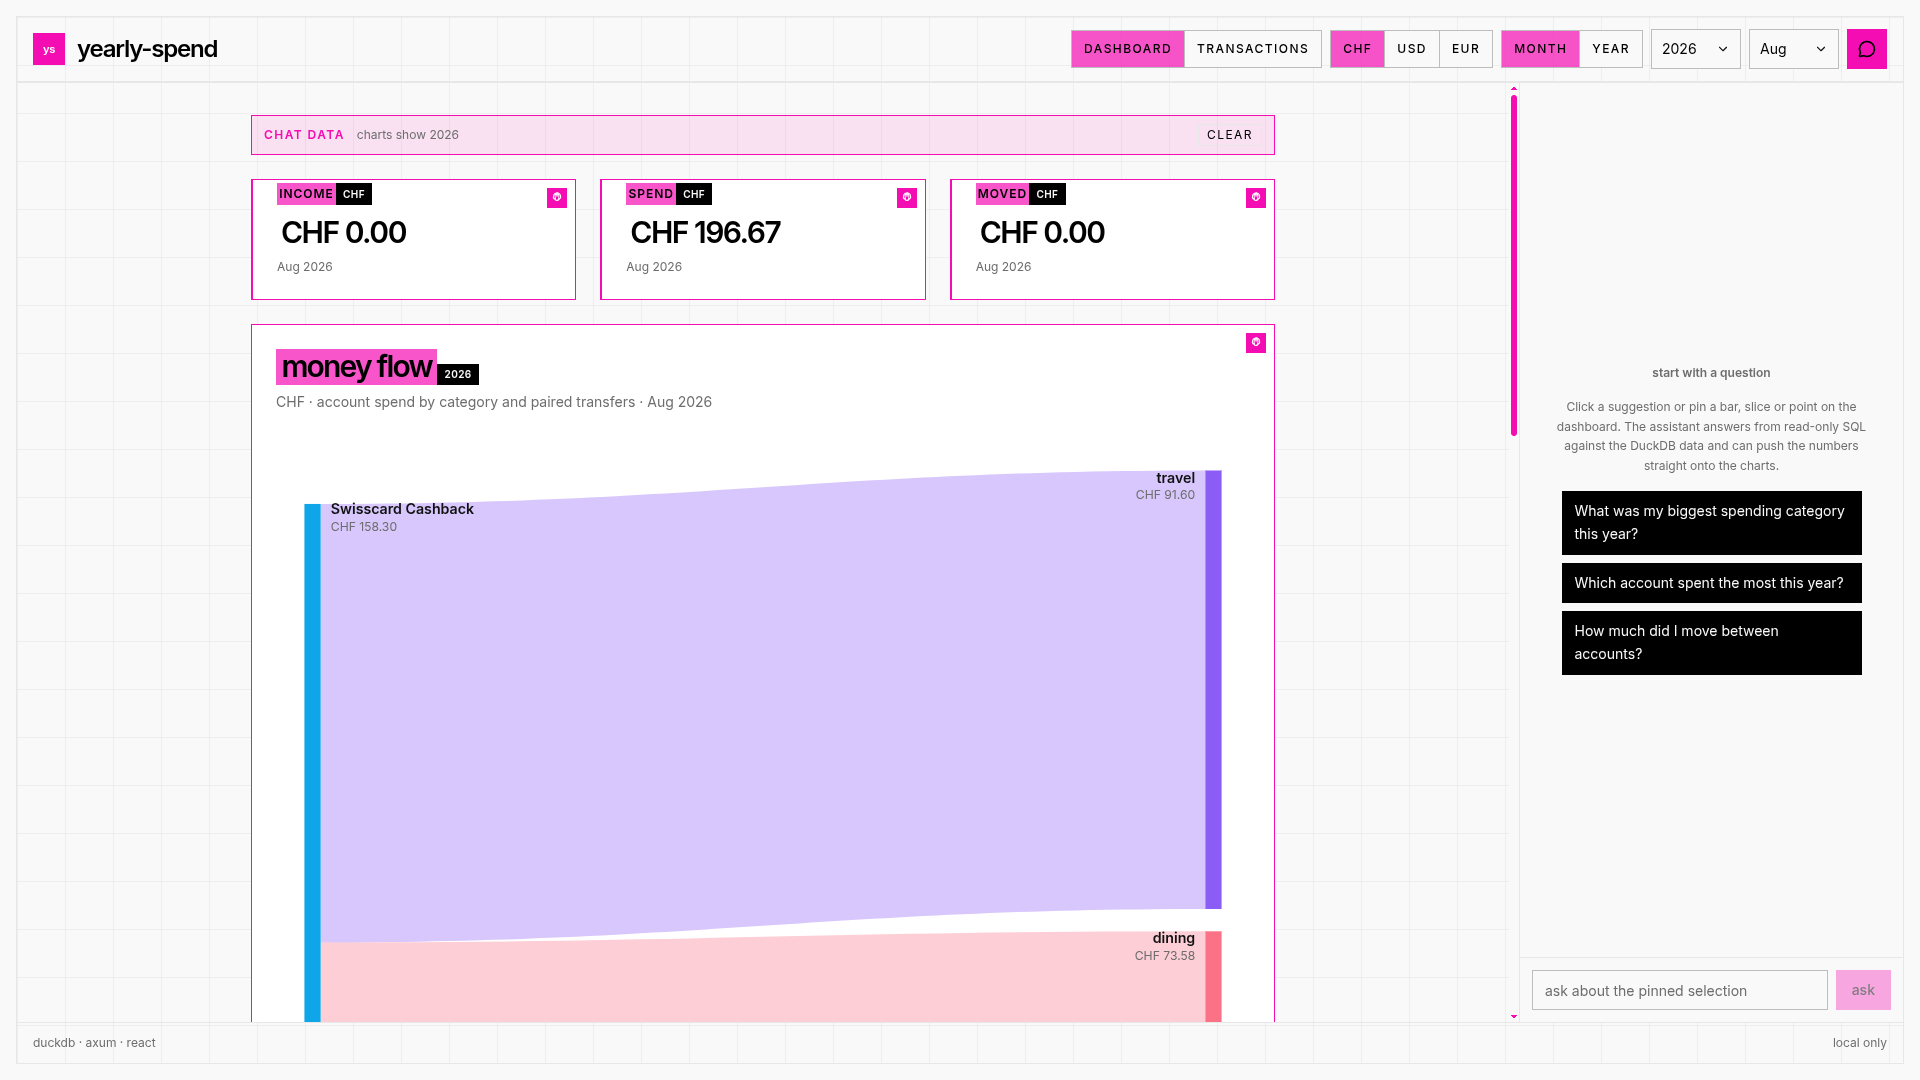
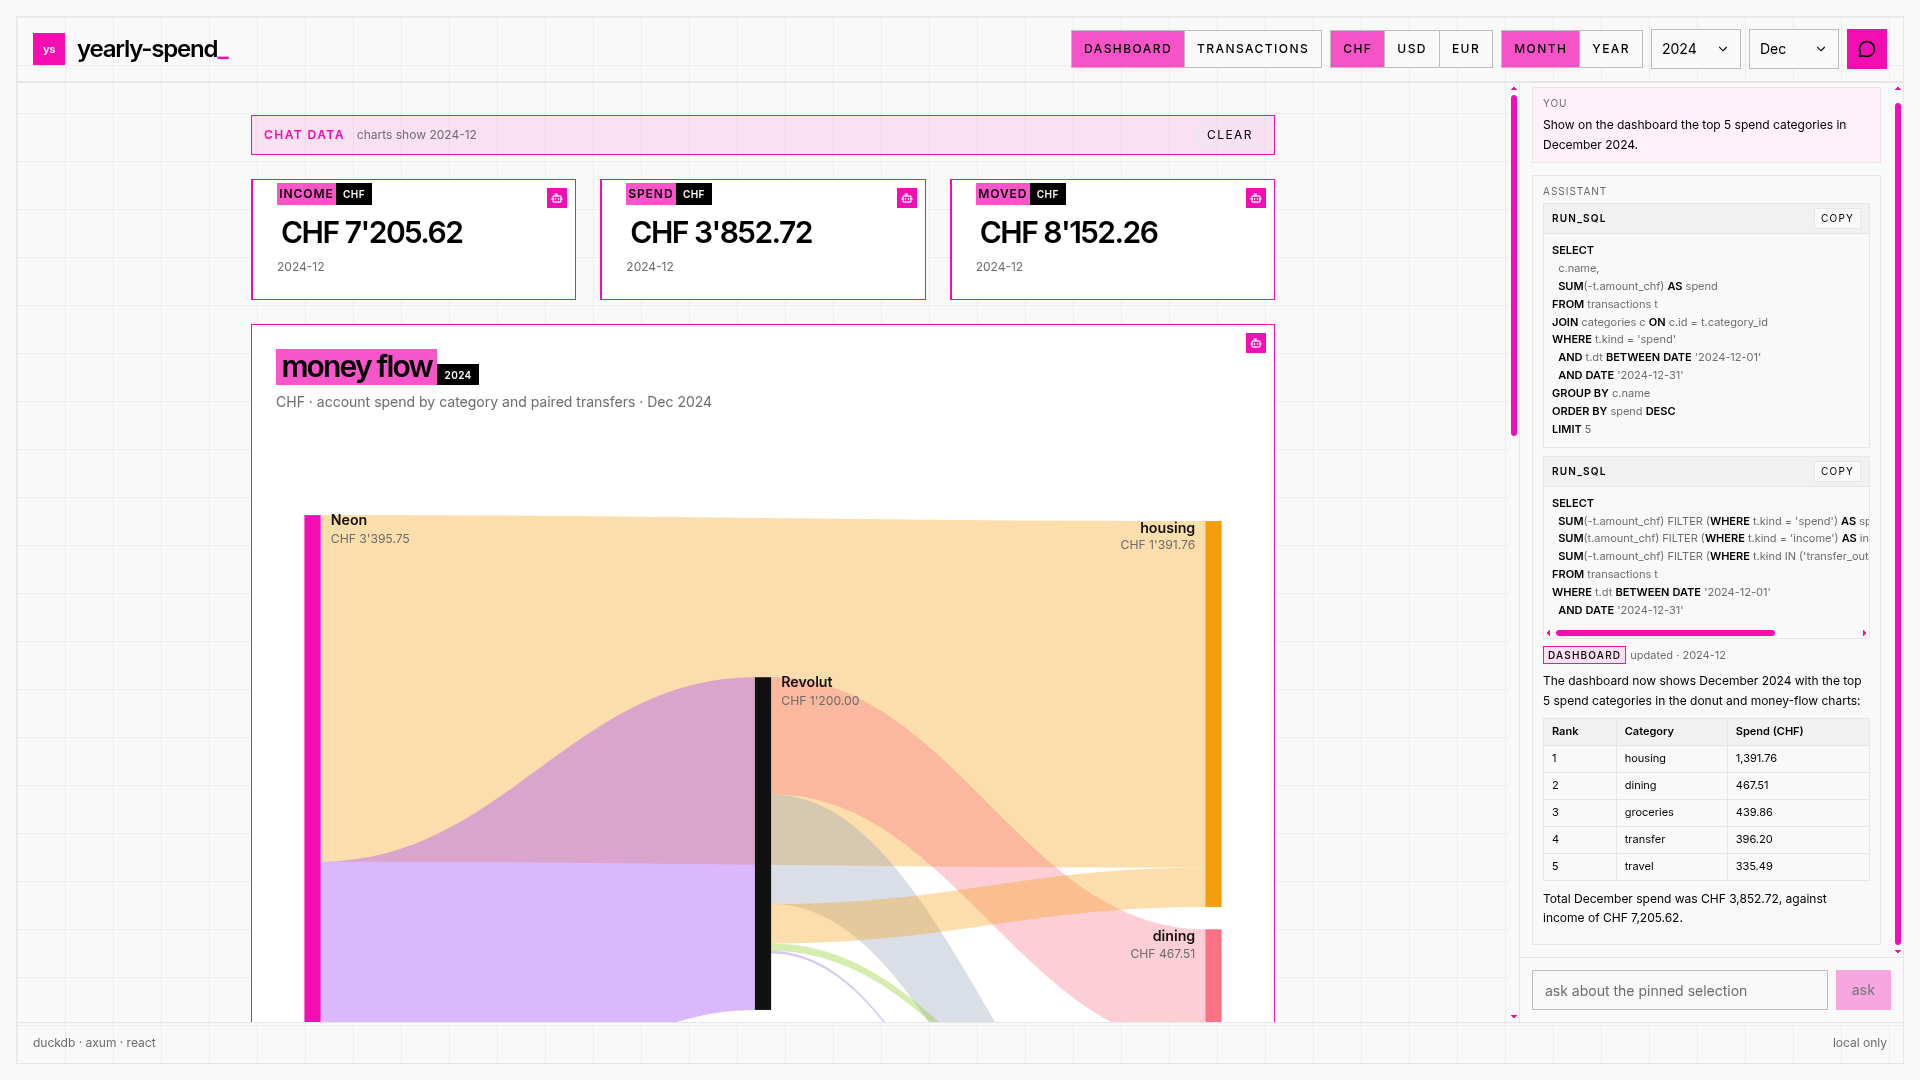
adding pretty sql formatter for ai responces

diff --git a/frontend/src/lib/sqlFormat.ts b/frontend/src/lib/sqlFormat.ts
@@ -1,0 +1,144 @@
+/**
+ * Lightweight DuckDB SELECT formatter for the chat sidebar.
+ * No dependencies. Handles the queries the assistant actually emits:
+ *  - single SELECT with optional JOINs
+ *  - WHERE with AND/OR/BETWEEN
+ *  - GROUP BY / ORDER BY / LIMIT / HAVING
+ *  - aggregate functions like SUM(), COUNT()
+ *
+ * It normalises whitespace, puts major clauses on new lines, indents
+ * continuation lines, and uppercases canonical keywords for readability.
+ */
+
+const JOIN_CLAUSES = ["LEFT JOIN", "RIGHT JOIN", "INNER JOIN", "OUTER JOIN", "JOIN"] as const
+const MAJOR_CLAUSES = [
+  "FROM",
+  "WHERE",
+  "GROUP BY",
+  "ORDER BY",
+  "LIMIT",
+  "HAVING",
+  "WINDOW",
+  "UNION",
+] as const
+
+export function formatSql(sql: string): string {
+  let s = sql.trim()
+
+  // Collapse interior whitespace to single spaces, but keep a single space
+  // between tokens. String literals keep their content; the collapse is safe
+  // because SQL strings are single-quoted and contain no extra whitespace that
+  // matters beyond one space.
+  s = s.replace(/\s+/g, " ")
+
+  // Put JOINs on new lines first, then major clauses.
+  for (const j of JOIN_CLAUSES) {
+    const re = new RegExp(`\\s+${escapeReg(j)}\\s+`, "gi")
+    s = s.replace(re, `\n${j} `)
+  }
+  for (const c of MAJOR_CLAUSES) {
+    const re = new RegExp(`\\s+${escapeReg(c)}\\s+`, "gi")
+    s = s.replace(re, `\n${c} `)
+  }
+
+  // SELECT -> SELECT\n  <fields>
+  s = s.replace(/^SELECT\s+/i, "SELECT\n  ")
+
+  // Within the SELECT field list (before the first FROM), put each comma
+  // separated expression on its own indented line. Handles SUM(), COUNT(), etc
+  // where commas appear inside parentheses - we only split at top-level commas.
+  const fromIdx = s.indexOf("\nFROM ")
+  if (fromIdx !== -1) {
+    const selectPart = s.slice(0, fromIdx)
+    const rest = s.slice(fromIdx)
+    s = splitSelectFields(selectPart) + rest
+  } else {
+    // No FROM (e.g. SELECT 1) - still split select list
+    if (s.startsWith("SELECT\n  ")) {
+      s = splitSelectFields(s)
+    }
+  }
+
+  // WHERE continuation: each AND / OR on a new indented line
+  s = s.replace(/\s+AND\s+/gi, "\n  AND ")
+  s = s.replace(/\s+OR\s+/gi, "\n  OR ")
+
+  // Uppercase canonical keywords (preserve identifiers and literal case otherwise)
+  s = s.replace(
+    /\b(select|from|where|group\s+by|order\s+by|limit|having|window|union|join|left\s+join|right\s+join|inner\s+join|outer\s+join|on|and|or|between|as|asc|desc|by)\b/gi,
+    (m) => m.toUpperCase(),
+  )
+
+  // Clean trailing spaces per line, keep intentional indentation
+  s = s
+    .split("\n")
+    .map((line) => line.trimEnd())
+    .join("\n")
+
+  return s
+}
+
+function escapeReg(s: string): string {
+  return s.replace(/[.*+?^${}()|[\]\\]/g, "\\$&")
+}
+
+function splitSelectFields(selectPart: string): string {
+  // selectPart starts with "SELECT\n  " followed by fields.
+  // Split at top-level commas (depth 0, not inside parentheses).
+  const prefix = "SELECT\n  "
+  if (!selectPart.startsWith(prefix)) return selectPart
+  const fieldsRaw = selectPart.slice(prefix.length)
+  const fields: string[] = []
+  let depth = 0
+  let current = ""
+  let inSingleQuote = false
+  for (let i = 0; i < fieldsRaw.length; i++) {
+    const ch = fieldsRaw[i]
+    if (ch === "'" && fieldsRaw[i - 1] !== "\\") {
+      // Handle '' escaped quotes: stay inside string
+      if (inSingleQuote && fieldsRaw[i + 1] === "'") {
+        current += "''"
+        i++
+        continue
+      }
+      inSingleQuote = !inSingleQuote
+      current += ch
+      continue
+    }
+    if (!inSingleQuote) {
+      if (ch === "(") depth++
+      else if (ch === ")") depth = Math.max(0, depth - 1)
+      else if (ch === "," && depth === 0) {
+        fields.push(current.trim())
+        current = ""
+        continue
+      }
+    }
+    current += ch
+  }
+  if (current.trim() !== "") fields.push(current.trim())
+  if (fields.length <= 1) return selectPart
+  return prefix + fields.join(",\n  ")
+}
+
+// Simple keyword highlighter: wraps canonical keywords in a styled span.
+// Used by the SqlChip component. Keeps string literals intact.
+const HIGHLIGHT_RE =
+  /\b(SELECT|FROM|WHERE|GROUP BY|ORDER BY|LIMIT|HAVING|WINDOW|UNION|JOIN|LEFT JOIN|RIGHT JOIN|INNER JOIN|OUTER JOIN|ON|AND|OR|BETWEEN|AS|ASC|DESC|COUNT|SUM|AVG|MAX|MIN|DATE)\b/gi
+
+export function tokenizeSqlForHighlight(sql: string): { text: string; isKeyword: boolean }[] {
+  const tokens: { text: string; isKeyword: boolean }[] = []
+  let last = 0
+  let m: RegExpExecArray | null
+  // Reset regex state
+  HIGHLIGHT_RE.lastIndex = 0
+  while ((m = HIGHLIGHT_RE.exec(sql)) !== null) {
+    if (m.index > last) {
+      tokens.push({ text: sql.slice(last, m.index), isKeyword: false })
+    }
+    tokens.push({ text: m[0].toUpperCase(), isKeyword: true })
+    last = m.index + m[0].length
+  }
+  if (last < sql.length) tokens.push({ text: sql.slice(last), isKeyword: false })
+  return tokens
+}

diff --git a/frontend/src/components/ChatSidebar.tsx b/frontend/src/components/ChatSidebar.tsx
@@ -1,6 +1,7 @@
 import { useEffect, useRef, useState, type ReactNode } from "react"
 import { Button } from "@/components/ui/button"
 import { streamChat, type ChatHistoryEntry } from "@/lib/chat"
+import { formatSql, tokenizeSqlForHighlight } from "@/lib/sqlFormat"
 import { cn } from "@/lib/utils"
 import { selectionKey, type ChartUpdate, type Selection } from "@/types"
 
@@ -61,12 +62,49 @@ function SelectionChip({
 }
 
 function SqlChip({ sql }: { sql: string }) {
+  const formatted = formatSql(sql)
+  const tokens = tokenizeSqlForHighlight(formatted)
+  const [copied, setCopied] = useState(false)
+
+  function onCopy() {
+    navigator.clipboard
+      .writeText(sql)
+      .then(() => {
+        setCopied(true)
+        window.setTimeout(() => setCopied(false), 1500)
+      })
+      .catch(() => {})
+  }
+
   return (
-    <div className="mb-1 font-mono text-[11px]">
-      <span className="mr-1 border border-border bg-muted px-1 py-0.5 text-[10px] font-medium uppercase tracking-[0.12em]">
-        run_sql
-      </span>
-      <code className="break-all text-muted-foreground">{sql}</code>
+    <div className="mb-2 overflow-hidden border border-border">
+      <div className="flex items-center justify-between gap-2 border-b border-border bg-muted px-2 py-1">
+        <span className="font-mono text-[10px] font-semibold uppercase tracking-[0.12em]">
+          run_sql
+        </span>
+        <button
+          type="button"
+          onClick={onCopy}
+          className="border border-border bg-background px-1.5 py-0.5 font-mono text-[10px] uppercase tracking-[0.12em] hover:bg-accent"
+        >
+          {copied ? "copied" : "copy"}
+        </button>
+      </div>
+      <pre className="max-w-full overflow-x-auto bg-background p-2 font-mono text-[11px] leading-relaxed">
+        <code className="whitespace-pre">
+          {tokens.map((token, index) =>
+            token.isKeyword ? (
+              <span key={index} className="font-semibold text-foreground">
+                {token.text}
+              </span>
+            ) : (
+              <span key={index} className="text-muted-foreground">
+                {token.text}
+              </span>
+            ),
+          )}
+        </code>
+      </pre>
     </div>
   )
 }

diff --git a/README.md b/README.md
@@ -1,54 +1,54 @@
 # yearly-spend
 
-Personal finance dashboard that turns raw bank exports (Neon, Revolut, Swisscard) into a clean, auditable spending overview. It ingests semicolon/comma CSVs, normalizes every amount to CHF via cached Frankfurter monthly FX rates, auto-categorizes transactions into a fixed 18-category taxonomy with an LLM, and serves a pixel-styled, fully local dashboard with year/month views, multi-currency display, an interactive Sankey money-flow, and a chat inspector that can query the DuckDB file with read-only SQL and push results back onto the charts.
+A personal finance dashboard I built to track my own spending. It ingests raw CSV exports from Neon, Revolut, and Swisscard (semicolon and comma formats), normalizes every amount to CHF using monthly FX rates from Frankfurter, and categorizes each transaction with an LLM into a fixed 18-category taxonomy. The dashboard itself is fully local and pixel-styled: year and month views, multi-currency display, a Sankey diagram of the money flow, and a chat inspector that can run read-only SQL against the DuckDB file and push the results back onto the charts.
 
 ![demo](images/demo.gif)
-*Demo GIF — dashboard, AI chat, and inline transaction editing (1920x1080). I will replace this placeholder with a recorded walkthrough.*
+*Demo GIF: dashboard, AI chat, and inline transaction editing (1920x1080). I will replace this placeholder with a recorded walkthrough.*
 
 ## Screenshots
 
-All captures are 1920×1080 viewport, full-page (`images/`).
+All captures are 1920x1080, full page (`images/`).
 
-| Dashboard — yearly overview | Month view |
+| Yearly overview | Month view |
 |---|---|
 | ![dashboard yearly](images/dashboard.png) | ![dashboard month](images/dashboard-month.png) |
-| KPI cards, money-flow Sankey, yearly totals + cumulative, category donut. Year picker, currency (CHF/USD/EUR) and month/year view in the navbar. | Same data scoped to a single month — monthly bar chart, daily drill-down, and month-scoped Sankey/categories. |
+| KPI cards, money-flow Sankey, yearly totals plus cumulative, category donut. The navbar has the year picker, currency (CHF/USD/EUR), and the month/year view toggle. | The same data scoped to one month: a monthly bar chart, a daily drill-down, and month-scoped Sankey and categories. |
 
-| Transactions — inline overrides | AI chat + pins |
+| Transactions, inline overrides | AI chat and pins |
 |---|---|
 | ![transactions](images/transactions.png) | ![chat](images/chat.png) |
-| Filterable, paginated table. Category is a taxonomy dropdown, `is_transfer` is a checkbox. `PATCH /api/transactions/{id}` flips `kind` via `kind_for_transfer` and persists on a short-lived read-write connection; lists use a read-only connection. | Click any bar/slice/point to pin a selection chip (chart, value, year/month, note). The inspector sends `{message, selections, history}` to `POST /api/chat`. The model replies over SSE with `run_sql` traces and `render_dashboard` overlays. |
+| Filterable, paginated table. Category is a taxonomy dropdown, `is_transfer` is a checkbox. `PATCH /api/transactions/{id}` flips `kind` via `kind_for_transfer` and writes through a short-lived read-write connection. All lists use a read-only connection. | Click any bar, slice, or point to pin a selection chip (chart, value, year/month, note). The inspector sends `{message, selections, history}` to `POST /api/chat`. The model replies over SSE with `run_sql` traces and `render_dashboard` overlays. |
 
 | AI-generated data mode |
-|---|
+|---|---|
 | ![ai mode](images/dashboard-ai.png) |
-| When the assistant pushes data, affected cards get a super-thin pink border (`!border-brand-pink`) and a small pink bot icon (top-right) — e.g. top-3 categories + Sankey filtered to 3 outflows, KPIs in USD, or month-scoped data. Changing any navbar control (currency, year, month, view) clears the overlay and returns to live DB data. |
+| When the assistant pushes data, the affected cards get a super-thin pink border (`!border-brand-pink`) and a small pink bot icon in the top-right corner. Examples: top-3 categories with the Sankey filtered to those 3 outflows, KPIs in USD, or month-scoped data. Change any navbar control (currency, year, month, view) and the overlay clears, returning to live DB data. |
 
 ## Tech stack
 
 | Layer | Tech |
 |---|---|
-| **Backend** | Rust (edition 2024) workspace — `core` (schema/migrations, DuckDB, FX cache, LLM client, `run_sql`/`render_dashboard` tool loop), `ingest` (Neon/Revolut/Cashback parsers, SHA-based file skip + natural-key upserts, 60-row LLM batch categorization), `api` (Axum on `127.0.0.1:3000`, SSE `POST /api/chat`, JSON `GET /api/meta,/summary,/series/*,/categories,/transactions`, `PATCH /api/transactions/{id}`, `GET /api/fx`, SPA fallback) |
-| **Database** | DuckDB (bundled) — single file `data/spend.duckdb` (`DB_PATH`), migrations in `core/src/schema.rs`, 18-category taxonomy + 4 seeded accounts |
-| **Frontend** | Vite + React 19 + TypeScript + Tailwind 4 + shadcn/ui + Recharts (`pnpm`), hash routing (`#/` dashboard, `#/transactions`), `app-frame` 2px pixel design, currency formatting with live Frankfurter spot rates |
-| **LLM / FX** | Local `llama-server` (OpenAI-compatible `/v1/chat/completions` SSE) or Gemini (`streamGenerateContent` SSE) — selected via `.env`; Frankfurter for FX monthly averages + spot (cached in `fx_rates`) |
-| **Tooling** | `just` task runner, `cargo fmt/clippy/test` (`-D warnings`, `unsafe_code = "forbid"`), `pnpm lint/format/build`, `cargo` workspace, `reqwest` + `sqlparser` (DuckDB dialect + lexical WITH-tail guard), `tower-http` |
+| Backend | Rust (edition 2024) workspace. `core` holds the schema and migrations, DuckDB access, the FX cache, the LLM client, and the `run_sql`/`render_dashboard` tool loop. `ingest` has the Neon, Revolut, and Cashback parsers, SHA-based whole-file skip plus natural-key row upserts, and 60-row LLM batch categorization. `api` is Axum on `127.0.0.1:3000`: SSE `POST /api/chat`, JSON `GET /api/meta,/summary,/series/*,/categories,/transactions`, `PATCH /api/transactions/{id}`, `GET /api/fx`, and an SPA fallback. |
+| Database | DuckDB (bundled). A single file at `data/spend.duckdb` (`DB_PATH`). Migrations live in `core/src/schema.rs` alongside the 18-category taxonomy and 4 seeded accounts. |
+| Frontend | Vite + React 19 + TypeScript + Tailwind 4 + shadcn/ui + Recharts, managed with pnpm. Hash routing (`#/` for the dashboard, `#/transactions` for the table), a 2px-border pixel design, and currency formatting with live Frankfurter spot rates. |
+| LLM / FX | Local `llama-server` (OpenAI-compatible `/v1/chat/completions` SSE) or Gemini (`streamGenerateContent` SSE), selected via `.env`. Frankfurter supplies the monthly average and spot FX rates, cached in `fx_rates`. |
+| Tooling | `just` task runner. `cargo fmt/clippy/test` with `-D warnings` and `unsafe_code = "forbid"`. `pnpm lint/format/build`. `reqwest`, `sqlparser` (DuckDB dialect plus a lexical WITH-tail guard), `tower-http`. |
 
-## Highlights 
+## Highlights
 
-* **Full-stack ownership** — Rust API serving a Vite SPA from the same binary, shared `spend-core` crate, end-to-end type safety from DuckDB to Recharts.
-* **LLM as data tool, not narrator** — `run_sql` is SELECT-only (sqlparser + CTE-tail guard, read-only connection, 100 rows / 8 rounds), every ingest batch is audited in `llm_calls`, taxonomy is validated; `render_dashboard` is JSON-schema validated and merges over live API data per year.
-* **Conversational memory** — frontend sends the last 20 turns (`{role, content}`) with every `ask`; backend replays `history` before the new user message for both Local (OpenAI `messages`) and Gemini (`contents`) so follow-ups (“what about last year?”) work without server state.
-* **Security & correctness** — `unsafe_code = "forbid"`, read-only connections by default, short-lived read-write only for `PATCH`, FX and ingest are idempotent (file SHA + `UNIQUE(source, source_key)`).
+- **Full-stack ownership.** One Rust binary serves the Vite SPA. A single `spend-core` crate is shared by the ingest CLI and the API, and the types that read DuckDB rows are the same types the API serializes to JSON.
+- **The LLM is a data tool, not a narrator.** The chat model has exactly two tools. `run_sql` is SELECT-only. The query must parse through sqlparser, and a second lexical check makes sure a `WITH` clause ends in `SELECT` or `VALUES`, because sqlparser alone parses `WITH ... INSERT` as a query. It runs on a read-only connection, capped at 100 rows and 8 rounds. Ingest categorization must map every row to a valid taxonomy entry, and every call is audited in the `llm_calls` table. `render_dashboard` output is JSON-schema validated before it is overlaid on the live data for its year.
+- **Conversational memory without server state.** The frontend sends the last 20 turns (`{role, content}`) with every request, and the backend replays that history before the new user message for both the local provider (OpenAI `messages`) and Gemini (`contents`). Follow-ups like "what about last year?" work with no session storage on the server.
+- **Security and correctness as defaults.** `unsafe_code = "forbid"` across the workspace. API connections are read-only by default, and only `PATCH` opens a short-lived read-write connection. FX and ingest are idempotent (file SHA plus `UNIQUE(source, source_key)`), so re-running is always safe.
 
 ## Setup
 
 ### Requirements
 
-* Rust 1.85+ (edition 2024)
-* `pnpm` 9+
-* `just` (optional — `cargo`/`pnpm` commands work directly)
-* DuckDB builds with the bundled feature — no external DB needed
+- Rust 1.85+ (edition 2024)
+- `pnpm` 9+
+- `just` (optional; plain `cargo`/`pnpm` commands work directly)
+- DuckDB is bundled, so no external database is needed
 
 ### Quick start
 
@@ -63,7 +63,7 @@ pnpm --dir frontend build
 cargo run -p spend-api
 ```
 
-Open http://127.0.0.1:3000. The dashboard works without an LLM — it shows whatever is already in `data/spend.duckdb` (empty on first checkout).
+Open http://127.0.0.1:3000. The dashboard works without an LLM. It shows whatever is already in `data/spend.duckdb`, which is empty on a first checkout.
 
 ### Ingest statements
 
@@ -72,13 +72,13 @@ cargo run -p ingest -- ingest statements/
 # or: just ingest
 ```
 
-Place exports under `statements/<source>/` — source is inferred from the nearest ancestor directory named `neon`, `revolut`, or `cashback_cards` (case-insensitive). Already-ingested files are skipped by SHA; rows are upserted by natural key.
+Place exports under `statements/<source>/`. The source is inferred from the nearest ancestor directory named `neon`, `revolut`, or `cashback_cards` (case-insensitive). The file SHA is checked first, so already-ingested files are skipped, and rows are upserted by natural key.
 
 ### LLM setup
 
-The same `.env` drives both ingest categorization and chat. You only need an LLM for those two features.
+One `.env` configures both ingest categorization and chat. You only need an LLM for those two features.
 
-#### Option A — local model (default, fully offline)
+#### Option A: local model (default, fully offline)
 
 The repo defaults to an OpenAI-compatible local server:
 
@@ -92,19 +92,19 @@ LLM_MODEL=/path/to/model.gguf   # or model id from /v1/models
 DB_PATH=data/spend.duckdb
 ```
 
-Run a server that speaks `/v1/chat/completions` with SSE, e.g.:
+Run any server that speaks `/v1/chat/completions` with SSE, for example:
 
 ```sh
 # llama.cpp llama-server
 llama-server --model /path/to/model.gguf --port 11434 --host 127.0.0.1
-# or Ollama (OpenAI compat)
+# or Ollama (OpenAI compatible)
 ollama serve
 ollama run qwen3:8b
 ```
 
-Then ingest/chat will use it. No key is sent beyond `sk-local-token`.
+Ingest and chat will then use it. No key is sent beyond `sk-local-token`.
 
-#### Option B — provider API key (Gemini)
+#### Option B: provider API key (Gemini)
 
 ```sh
 # .env
@@ -117,9 +117,9 @@ GEMINI_MODEL=gemini-2.5-flash
 DB_PATH=data/spend.duckdb
 ```
 
-Only `GEMINI_API_KEY` is required to switch; the code picks `gemini` when the key is present and maps `history` to Gemini `contents` (`user`/`model` roles) + `system_instruction`. Keep `.env` gitignored and copy from `.env.example`.
+Only `GEMINI_API_KEY` is needed to switch. The code picks `gemini` when the key is present and maps history onto Gemini `contents` (`user`/`model` roles) plus `system_instruction`. Copy from `.env.example` and keep `.env` gitignored.
 
-> **No LLM?** Leave `.env` as-is. Ingest will leave rows uncategorized, but `cargo run -p spend-api` and the dashboard still work. You can categorize later after configuring a provider and re-running ingest.
+> **No LLM?** Leave `.env` as is. Ingest will leave rows uncategorized, but the API and dashboard still work. Configure a provider and re-run ingest later to categorize them.
 
 ## Development
 
@@ -131,9 +131,9 @@ just rust-test      # cargo test --workspace
 
 ### Verification
 
-* Pick years/months in the navbar and cross-check KPI/bar/donut numbers against `SELECT sum(-amount_chf) FILTER (WHERE kind='spend')` on `data/spend.duckdb`.
-* Try the chat: pin a bar/slice, ask “top 3 categories in 2026?”, confirm the pink-bordered cards + bot icon appear and the Sankey shows exactly 3 outflows. Change currency/year to confirm the overlay clears.
-* Transactions: change a row’s category or transfer checkbox and verify the dashboard refetches on hash-nav back to `#/`.
+- Pick a year and month in the navbar, and cross-check the KPI, bar, and donut numbers against `SELECT sum(-amount_chf) FILTER (WHERE kind='spend')` run directly on `data/spend.duckdb`.
+- In the chat, pin a bar or slice, ask "top 3 categories in 2026?", and confirm the pink-bordered cards and bot icon appear and the Sankey shows exactly 3 outflows. Change the currency or year and confirm the overlay clears.
+- On the transactions page, change a row's category or transfer checkbox, go back to the dashboard, and verify it refetches.
 
 ## Project layout
 
